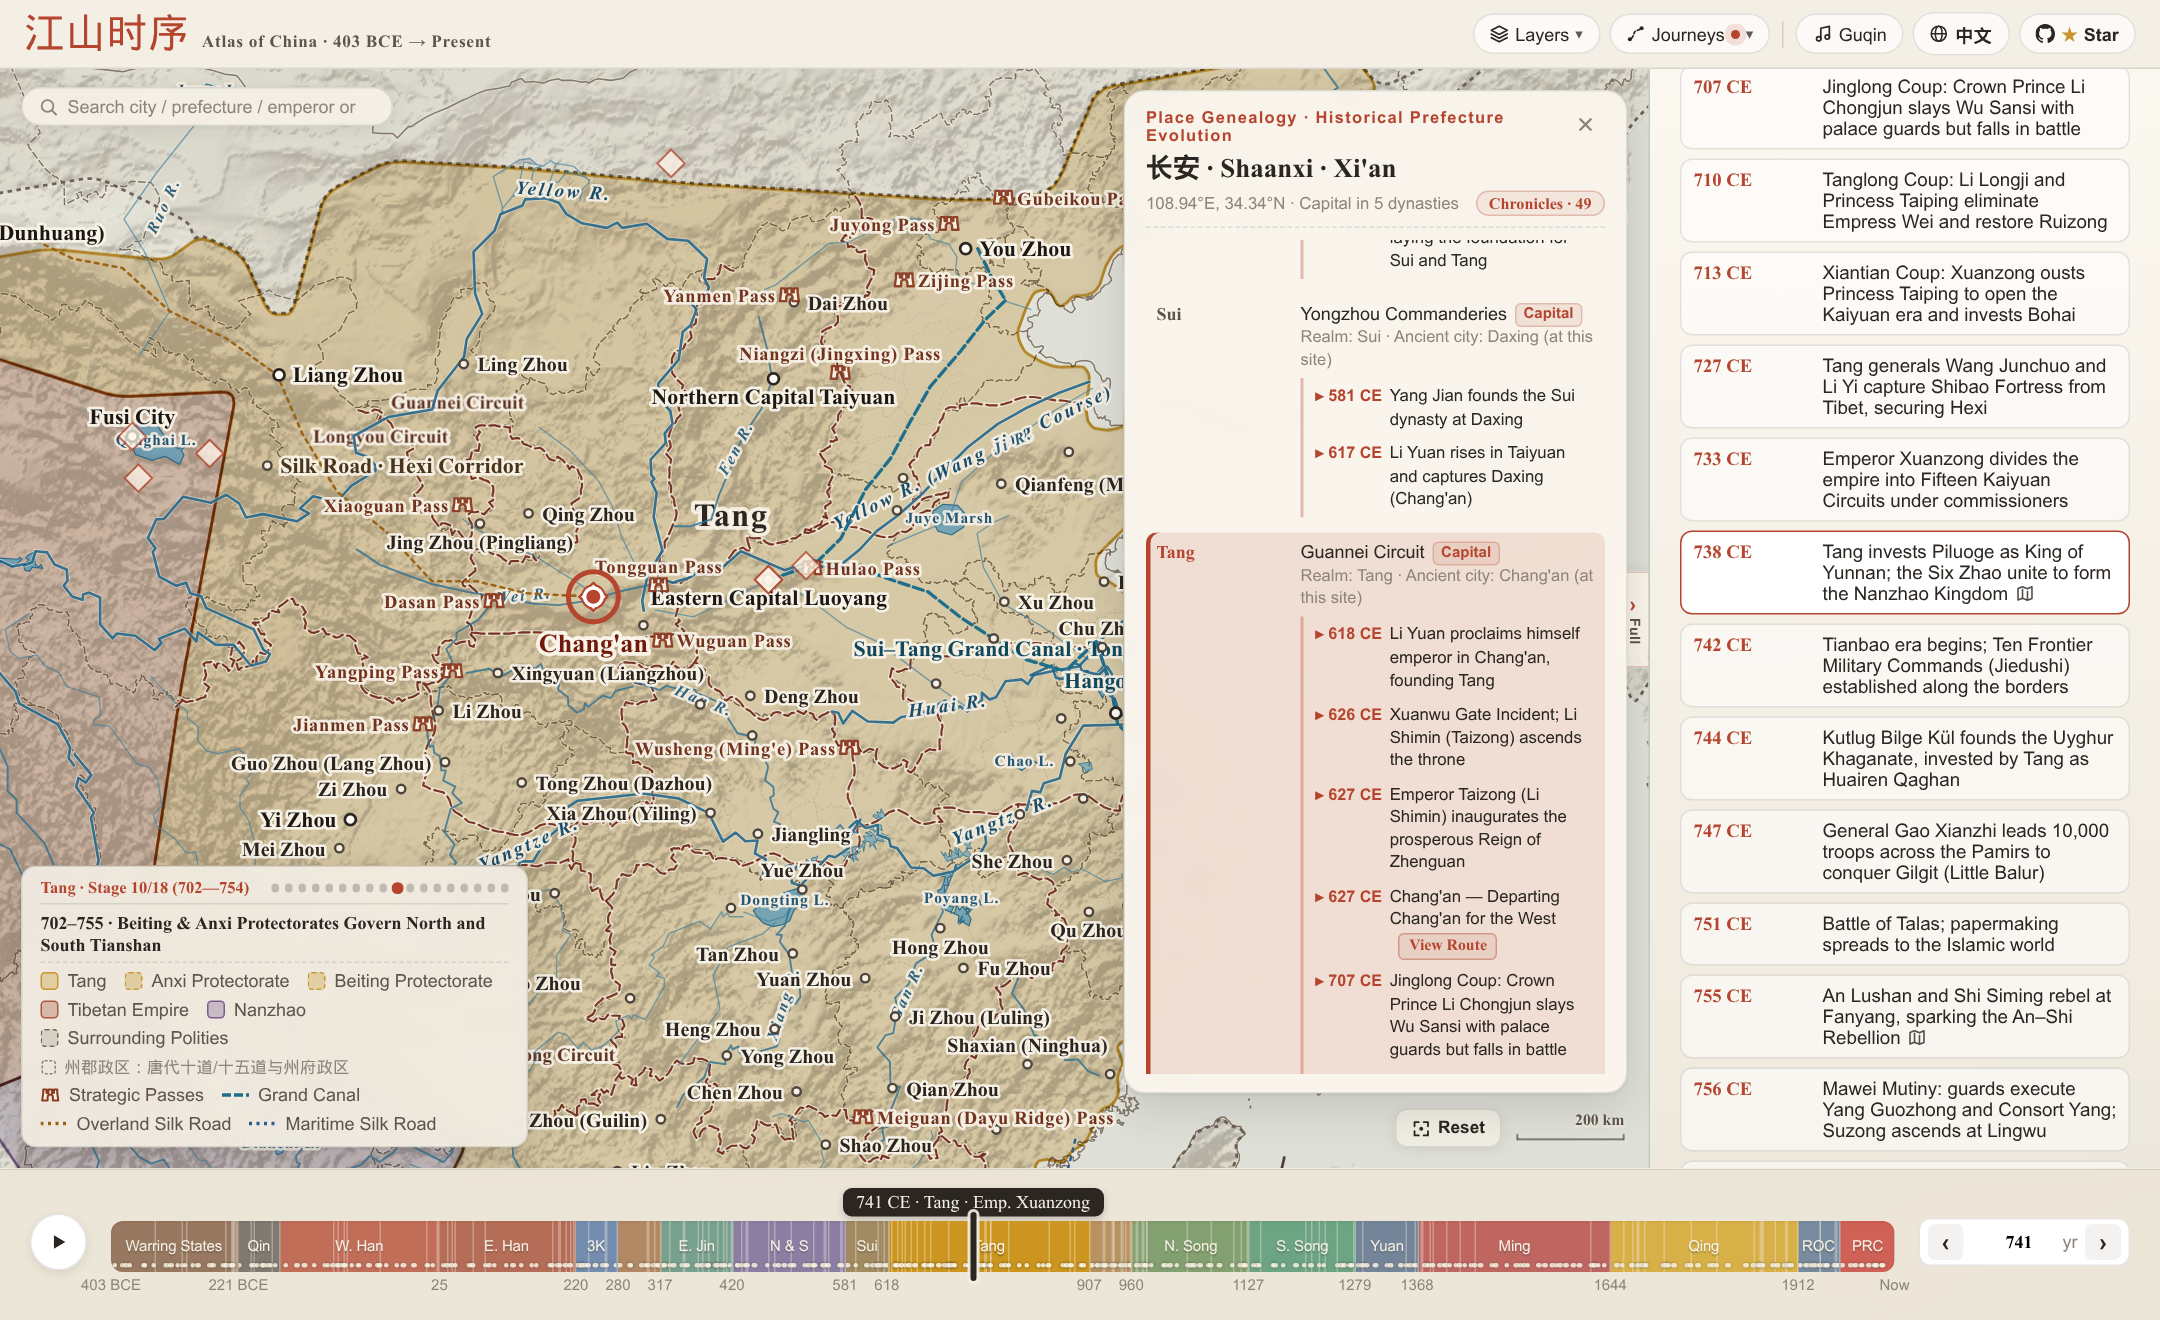
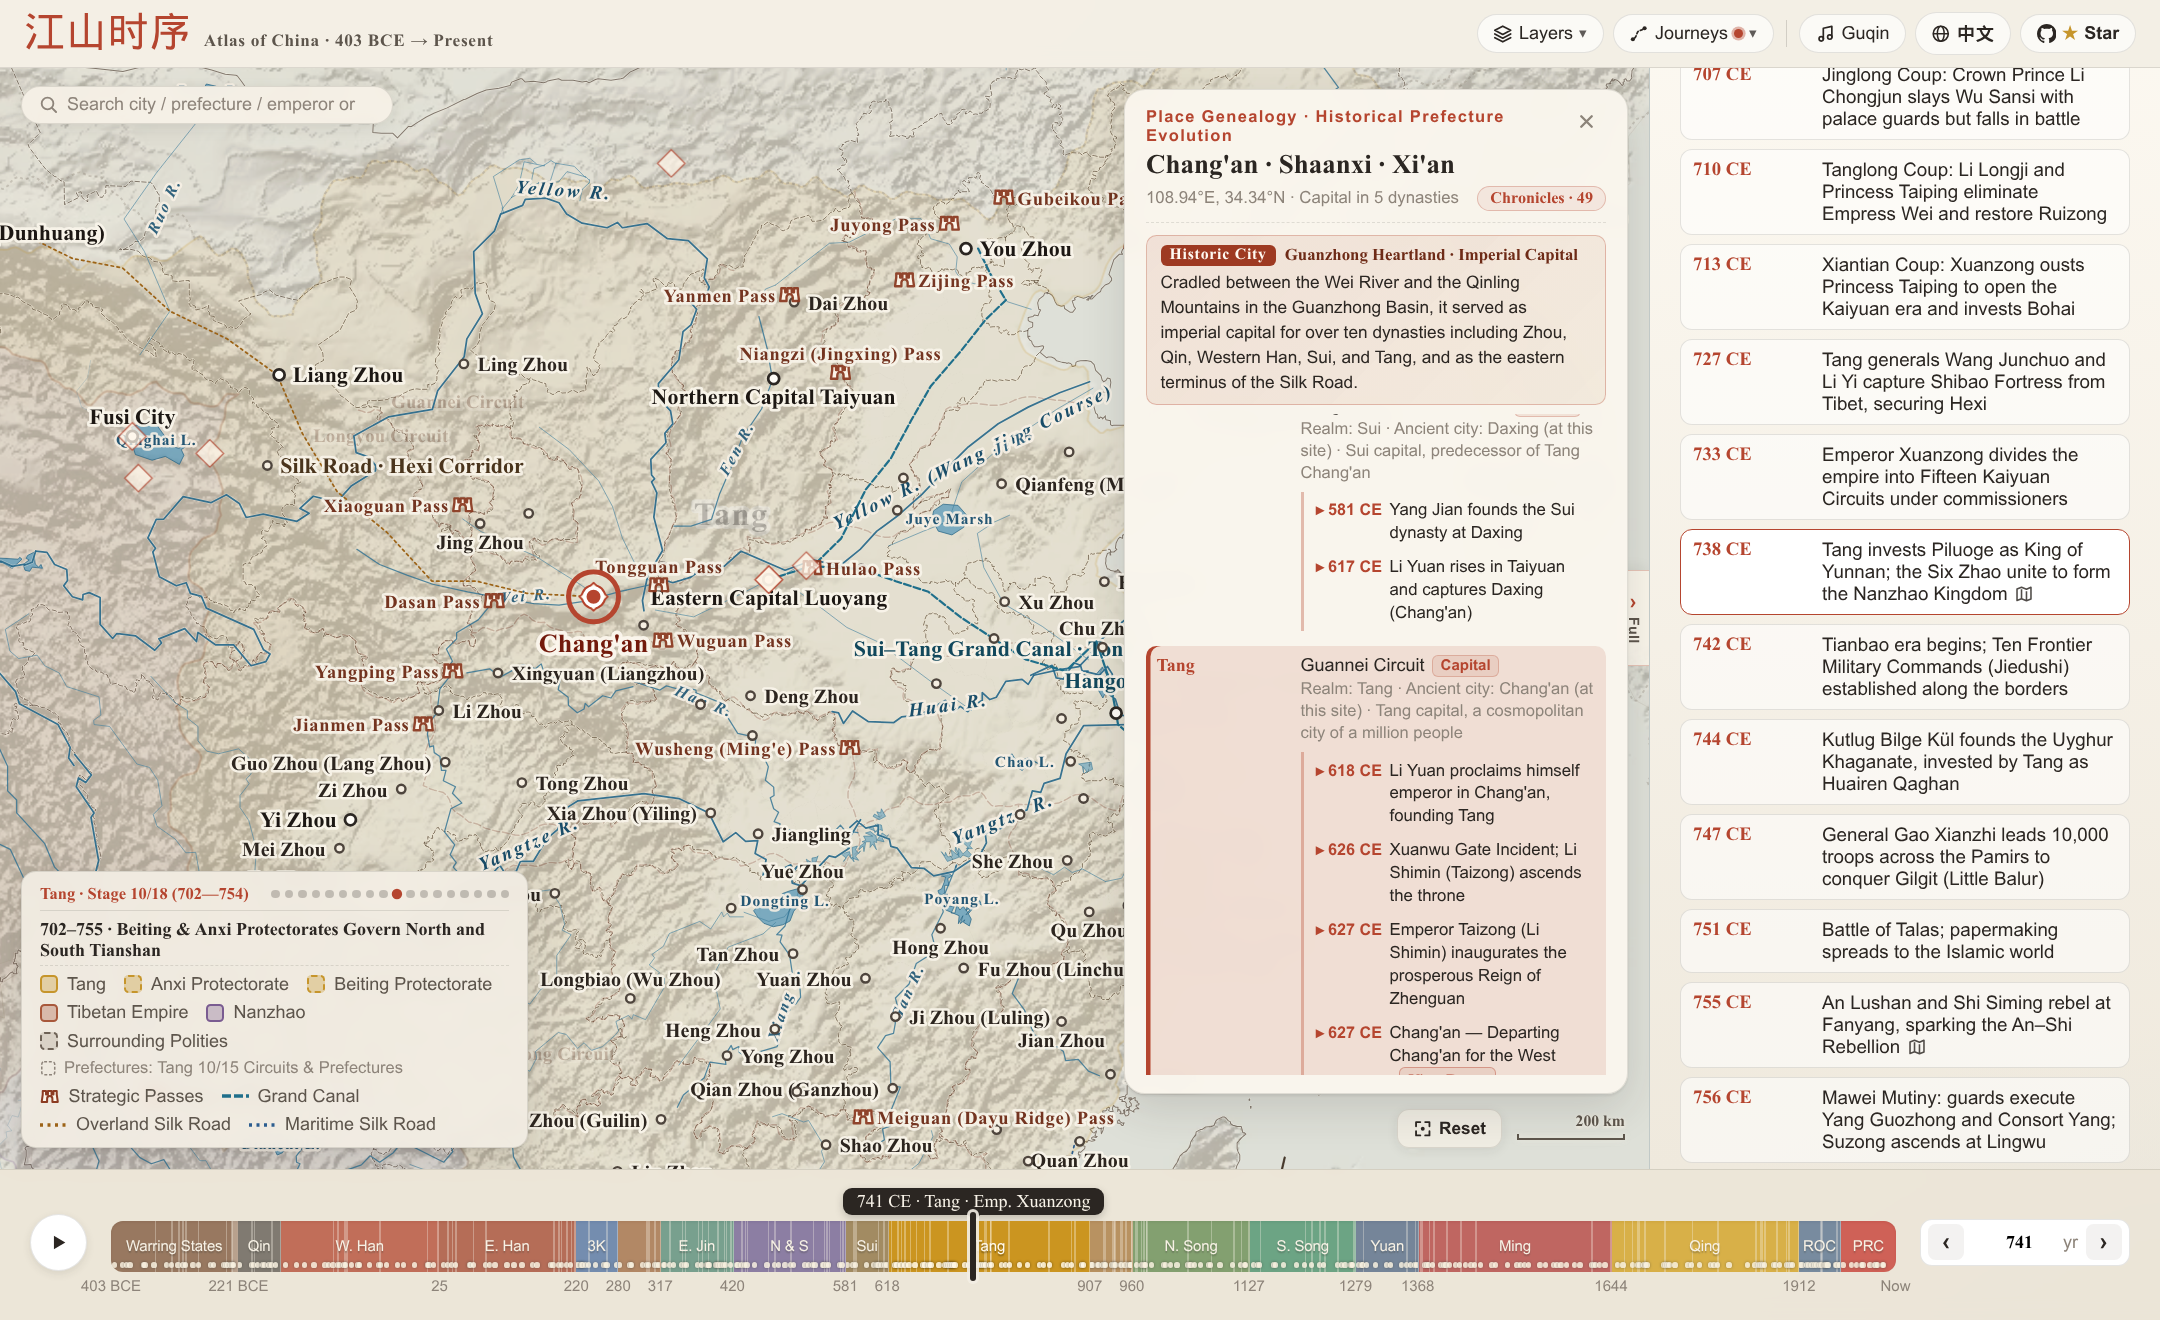
docs(readme): refresh Tang 741 CE preview screenshots (ZH & EN)

diff --git a/js/map_data.js b/js/map_data.js
@@ -6858,7 +6858,7 @@ window.DYNASTY_DATA = [
         "remark": "开元九年升河中府，置中都；鹳雀楼、蒲津铁牛"
       },
       {
-        "ancient": "澶州（濮阳）",
+        "ancient": "澶州",
         "modern": "濮阳",
         "coord": [
           115.03,
@@ -7080,7 +7080,7 @@ window.DYNASTY_DATA = [
         "remark": "剑南道川南重镇，控扼长江与沱江交汇"
       },
       {
-        "ancient": "通州（达州）",
+        "ancient": "通州",
         "modern": "达州",
         "coord": [
           107.5,
@@ -7221,7 +7221,7 @@ window.DYNASTY_DATA = [
         "remark": "唐代海南岛极南州治，鉴真东渡漂流驻锡处"
       },
       {
-        "ancient": "泾州（平凉）",
+        "ancient": "泾州",
         "modern": "平凉",
         "coord": [
           106.67,

diff --git a/README.md b/README.md
@@ -42,9 +42,9 @@ Have you ever wondered while reading Chinese history or classical poetry:
 - **Site-Specific Landmark Events**: Beneath each dynasty row, inspect major historical events that took place right on that spot (e.g., *Shang Yang's Reforms* and *Qin's Unification* at Xianyang, *Guan Yu Flooding the Seven Armies* at Fancheng, the *Xuanwu Gate Incident* at Chang'an, or *Yue Fei's Martyrdom* at Lin'an). Click the **`Key Events`** pill in the top-right of the card to filter for dynasties with major events, and click any event to time-travel straight to that year!
 - **Strategic Mountain Passes & Poetic / Battlefield Landmarks**: Explore famous mountain passes—including *Hangu Pass*, *Tongguan*, *Jianmen Pass*, *Yanmen Pass*, *Yumen Pass*, *Yangguan*, and *Shanhai Pass*—rendered with traditional *Hanque* gatehouse icons and strategic terrain notes, alongside famous battlefields and literary landmarks such as *Red Cliffs (Chibi)*, *Gaixia*, *Wuzhang Plains*, *Orchid Pavilion (Lanting)*, *Yueyang Tower*, *Pavilion of Prince Teng*, *Languan Pass*, *Loulan*, *Lop Nur*, and *Issyk-Kul*.
 
-> [Try It Live: High Tang Kaiyuan 29 (741 CE) · Open Chang'an's 2,400-Year Genealogy Card →](https://deanchen.me/jiangshan-map/?year=741&place=长安&lang=en)
+> [Try It Live: High Tang Kaiyuan 29 (741 CE) · Open Chang'an's 2,400-Year Genealogy Card →](https://deanchen.me/jiangshan-map/?year=741&place=Chang'an&lang=en)
 
-![High Tang 741 CE · Chang'an Trace Place & Key Events](assets/preview_741_tang_trace.png)
+![High Tang 741 CE · Chang'an Trace Place & Key Events](assets/preview_741_tang_trace_en.png)
 
 ---
 
